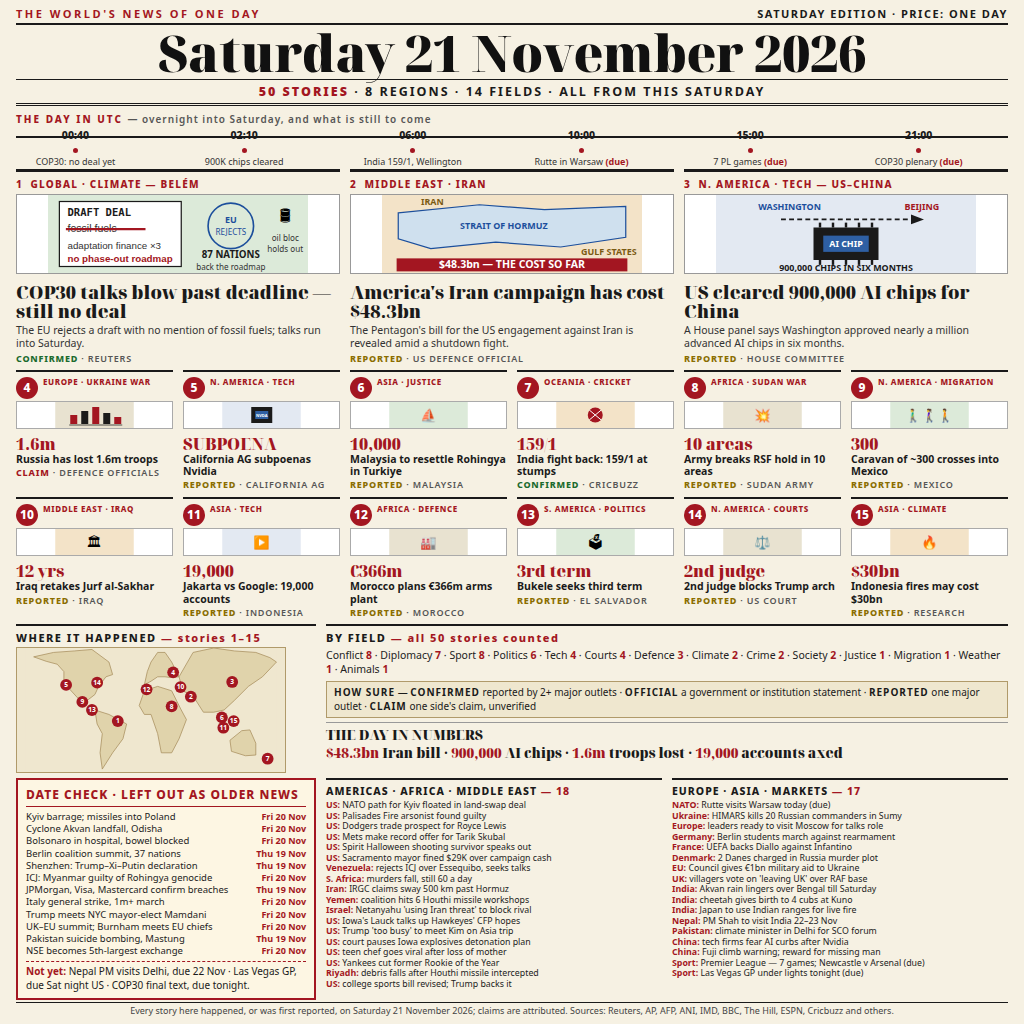
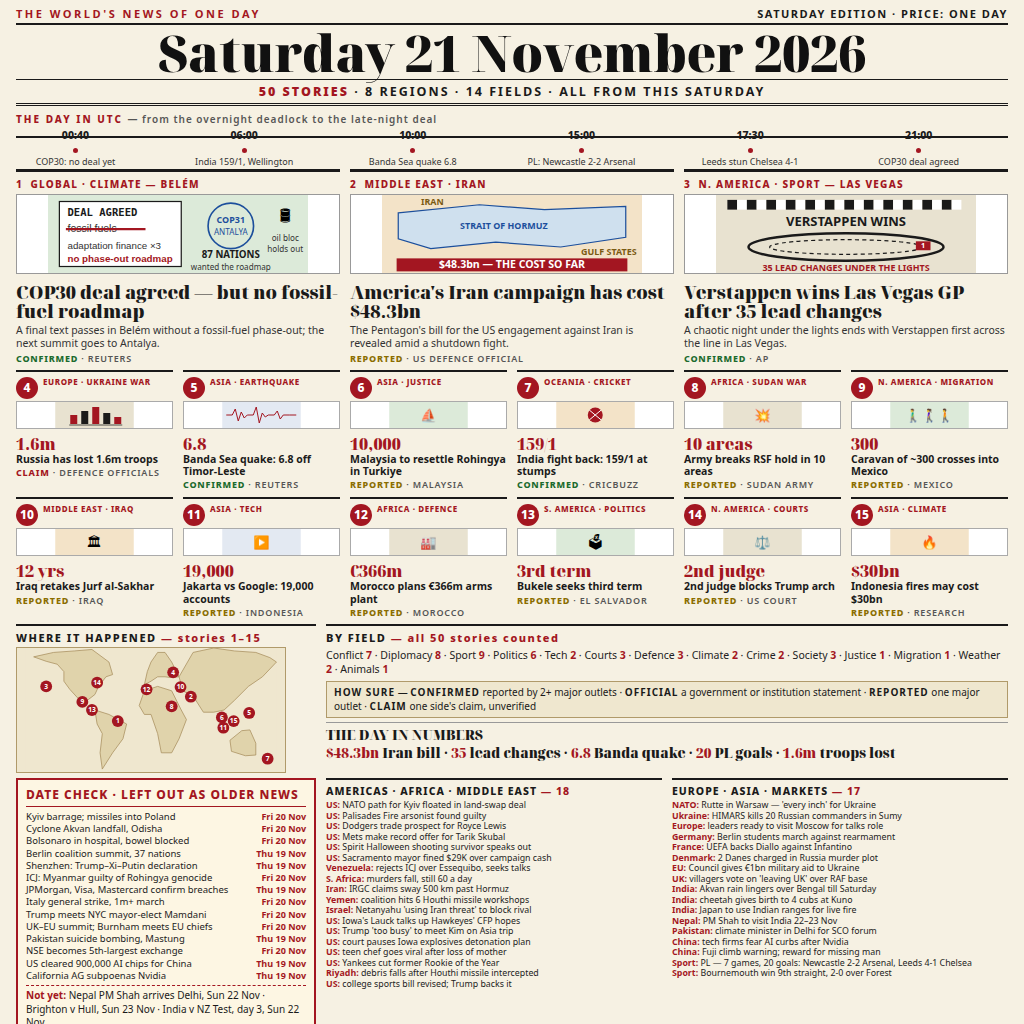
Round 2: Saturday 21 November 2026 - evening refresh, COP30 deal, Rutte Warsaw, Vegas GP

diff --git a/page.html b/page.html
@@ -138,15 +138,15 @@
 
   <!-- timeline -->
   <div class="timeline">
-    <div class="tl-head">THE DAY IN UTC <span>— overnight into Saturday, and what is still to come</span></div>
+    <div class="tl-head">THE DAY IN UTC <span>— from the overnight deadlock to the late-night deal</span></div>
     <div class="tl-track">
       <div class="tl-line"></div>
       <div class="tl-slot" style="left:6%"><div class="t">00:40</div><div class="dot"></div><div class="d">COP30: no deal yet</div></div>
-      <div class="tl-slot" style="left:23%"><div class="t">02:10</div><div class="dot"></div><div class="d">900K chips cleared</div></div>
-      <div class="tl-slot" style="left:40%"><div class="t">06:00</div><div class="dot"></div><div class="d">India 159/1, Wellington</div></div>
-      <div class="tl-slot" style="left:57%"><div class="t">10:00</div><div class="dot"></div><div class="d">Rutte in Warsaw <i>(due)</i></div></div>
-      <div class="tl-slot" style="left:74%"><div class="t">15:00</div><div class="dot"></div><div class="d">7 PL games <i>(due)</i></div></div>
-      <div class="tl-slot" style="left:91%"><div class="t">21:00</div><div class="dot"></div><div class="d">COP30 plenary <i>(due)</i></div></div>
+      <div class="tl-slot" style="left:23%"><div class="t">06:00</div><div class="dot"></div><div class="d">India 159/1, Wellington</div></div>
+      <div class="tl-slot" style="left:40%"><div class="t">10:00</div><div class="dot"></div><div class="d">Banda Sea quake 6.8</div></div>
+      <div class="tl-slot" style="left:57%"><div class="t">15:00</div><div class="dot"></div><div class="d">PL: Newcastle 2-2 Arsenal</div></div>
+      <div class="tl-slot" style="left:74%"><div class="t">17:30</div><div class="dot"></div><div class="d">Leeds stun Chelsea 4-1</div></div>
+      <div class="tl-slot" style="left:91%"><div class="t">21:00</div><div class="dot"></div><div class="d">COP30 deal agreed</div></div>
     </div>
   </div>
 
@@ -157,22 +157,22 @@
       <svg class="art" viewBox="0 0 320 96" width="100%" height="96">
         <rect width="320" height="96" fill="#dcead9"/>
         <rect x="14" y="8" width="150" height="80" fill="#fff" stroke="#1a1a1a" stroke-width="1.5"/>
-        <text x="24" y="26" font-family="monospace" font-size="13" font-weight="bold" fill="#1a1a1a">DRAFT DEAL</text>
+        <text x="24" y="26" font-family="monospace" font-size="13" font-weight="bold" fill="#1a1a1a">DEAL AGREED</text>
         <text x="24" y="46" font-family="sans-serif" font-size="13" fill="#333">fossil fuels</text>
         <line x1="22" y1="42" x2="120" y2="42" stroke="#a31621" stroke-width="3"/>
         <text x="24" y="66" font-family="sans-serif" font-size="12" fill="#333">adaptation finance ×3</text>
         <text x="24" y="82" font-family="sans-serif" font-size="12" fill="#a31621" font-weight="bold">no phase-out roadmap</text>
         <circle cx="225" cy="38" r="28" fill="none" stroke="#1c4f9c" stroke-width="2"/>
-        <text x="225" y="34" text-anchor="middle" font-size="11" font-weight="bold" fill="#1c4f9c">EU</text>
-        <text x="225" y="49" text-anchor="middle" font-size="10" fill="#1c4f9c">REJECTS</text>
+        <text x="225" y="34" text-anchor="middle" font-size="11" font-weight="bold" fill="#1c4f9c">COP31</text>
+        <text x="225" y="49" text-anchor="middle" font-size="10" fill="#1c4f9c">ANTALYA</text>
         <text x="225" y="78" text-anchor="middle" font-size="12" font-weight="bold" fill="#1a1a1a">87 NATIONS</text>
-        <text x="225" y="92" text-anchor="middle" font-size="10" fill="#333">back the roadmap</text>
+        <text x="225" y="92" text-anchor="middle" font-size="10" fill="#333">wanted the roadmap</text>
         <text x="292" y="32" text-anchor="middle" font-size="20">🛢</text>
         <text x="292" y="56" text-anchor="middle" font-size="10" fill="#333">oil bloc</text>
         <text x="292" y="70" text-anchor="middle" font-size="10" fill="#333">holds out</text>
       </svg>
-      <h2>COP30 talks blow past deadline — still no deal</h2>
-      <p>The EU rejects a draft with no mention of fossil fuels; talks run into Saturday.</p>
+      <h2>COP30 deal agreed — but no fossil-fuel roadmap</h2>
+      <p>A final text passes in Belém without a fossil-fuel phase-out; the next summit goes to Antalya.</p>
       <div class="src"><span class="conf">CONFIRMED</span> <span class="outlet">· REUTERS</span></div>
     </div>
     <div class="big">
@@ -191,22 +191,22 @@
       <div class="src"><span class="rep">REPORTED</span> <span class="outlet">· US DEFENCE OFFICIAL</span></div>
     </div>
     <div class="big">
-      <div class="kick">3 &nbsp;N. AMERICA · TECH — US–CHINA</div>
+      <div class="kick">3 &nbsp;N. AMERICA · SPORT — LAS VEGAS</div>
       <svg class="art" viewBox="0 0 320 96" width="100%" height="96">
-        <rect width="320" height="96" fill="#e3e9f2"/>
-        <text x="52" y="18" font-size="11" font-weight="bold" fill="#1c4f9c">WASHINGTON</text>
-        <text x="232" y="18" font-size="11" font-weight="bold" fill="#a31621">BEIJING</text>
-        <line x1="80" y1="30" x2="240" y2="30" stroke="#1a1a1a" stroke-width="2" stroke-dasharray="6 4"/>
-        <polygon points="240,24 256,30 240,36" fill="#1a1a1a"/>
-        <rect x="120" y="40" width="80" height="40" fill="#1a1a1a"/>
-        <rect x="132" y="50" width="56" height="20" fill="#2e5fa3"/>
-        <text x="160" y="64" text-anchor="middle" font-size="11" font-weight="bold" fill="#fff">AI CHIP</text>
-        <g stroke="#1a1a1a" stroke-width="3"><line x1="128" y1="40" x2="128" y2="34"/><line x1="144" y1="40" x2="144" y2="34"/><line x1="160" y1="40" x2="160" y2="34"/><line x1="176" y1="40" x2="176" y2="34"/><line x1="192" y1="40" x2="192" y2="34"/><line x1="128" y1="80" x2="128" y2="86"/><line x1="144" y1="80" x2="144" y2="86"/><line x1="160" y1="80" x2="160" y2="86"/><line x1="176" y1="80" x2="176" y2="86"/><line x1="192" y1="80" x2="192" y2="86"/></g>
-        <text x="160" y="94" text-anchor="middle" font-size="11" font-weight="bold" fill="#1a1a1a">900,000 CHIPS IN SIX MONTHS</text>
+        <rect width="320" height="96" fill="#e8e2d0"/>
+        <g>
+          <rect x="14" y="6" width="12" height="12" fill="#1a1a1a"/><rect x="26" y="6" width="12" height="12" fill="#fff"/><rect x="38" y="6" width="12" height="12" fill="#1a1a1a"/><rect x="50" y="6" width="12" height="12" fill="#fff"/><rect x="62" y="6" width="12" height="12" fill="#1a1a1a"/><rect x="74" y="6" width="12" height="12" fill="#fff"/><rect x="86" y="6" width="12" height="12" fill="#1a1a1a"/><rect x="98" y="6" width="12" height="12" fill="#fff"/><rect x="110" y="6" width="12" height="12" fill="#1a1a1a"/><rect x="122" y="6" width="12" height="12" fill="#fff"/><rect x="134" y="6" width="12" height="12" fill="#1a1a1a"/><rect x="146" y="6" width="12" height="12" fill="#fff"/><rect x="158" y="6" width="12" height="12" fill="#1a1a1a"/><rect x="170" y="6" width="12" height="12" fill="#fff"/><rect x="182" y="6" width="12" height="12" fill="#1a1a1a"/><rect x="194" y="6" width="12" height="12" fill="#fff"/><rect x="206" y="6" width="12" height="12" fill="#1a1a1a"/><rect x="218" y="6" width="12" height="12" fill="#fff"/><rect x="230" y="6" width="12" height="12" fill="#1a1a1a"/><rect x="242" y="6" width="12" height="12" fill="#fff"/><rect x="254" y="6" width="12" height="12" fill="#1a1a1a"/><rect x="266" y="6" width="12" height="12" fill="#fff"/><rect x="278" y="6" width="12" height="12" fill="#1a1a1a"/><rect x="290" y="6" width="12" height="12" fill="#fff"/>
+        </g>
+        <text x="160" y="38" text-anchor="middle" font-size="16" font-weight="bold" fill="#1a1a1a">VERSTAPPEN WINS</text>
+        <ellipse cx="160" cy="64" rx="120" ry="17" fill="none" stroke="#1a1a1a" stroke-width="3"/>
+        <ellipse cx="160" cy="64" rx="94" ry="9" fill="none" stroke="#1a1a1a" stroke-width="1.5" stroke-dasharray="5 4"/>
+        <rect x="246" y="57" width="18" height="11" fill="#a31621"/>
+        <text x="255" y="65" text-anchor="middle" font-size="9" font-weight="bold" fill="#fff">1</text>
+        <text x="160" y="93" text-anchor="middle" font-size="11" font-weight="bold" fill="#a31621">35 LEAD CHANGES UNDER THE LIGHTS</text>
       </svg>
-      <h2>US cleared 900,000 AI chips for China</h2>
-      <p>A House panel says Washington approved nearly a million advanced AI chips in six months.</p>
-      <div class="src"><span class="rep">REPORTED</span> <span class="outlet">· HOUSE COMMITTEE</span></div>
+      <h2>Verstappen wins Las Vegas GP after 35 lead changes</h2>
+      <p>A chaotic night under the lights ends with Verstappen first across the line in Las Vegas.</p>
+      <div class="src"><span class="conf">CONFIRMED</span> <span class="outlet">· AP</span></div>
     </div>
   </div>
 
@@ -216,10 +216,10 @@
       <svg class="art" viewBox="0 0 157 52" width="100%" height="52"><rect width="157" height="52" fill="#e8e2d0"/><rect x="30" y="26" width="14" height="18" fill="#a31621"/><rect x="52" y="18" width="14" height="26" fill="#1a1a1a"/><rect x="74" y="10" width="14" height="34" fill="#a31621"/><rect x="96" y="22" width="14" height="22" fill="#1a1a1a"/><rect x="118" y="30" width="14" height="14" fill="#a31621"/><line x1="28" y1="46" x2="134" y2="46" stroke="#1a1a1a" stroke-width="1.5"/></svg>
       <div class="call">1.6m</div><h3>Russia has lost 1.6m troops</h3>
       <div class="src"><span class="claim">CLAIM</span> <span class="outlet">· DEFENCE OFFICIALS</span></div></div>
-    <div class="med"><div class="num">5</div><div class="kick">N. AMERICA · TECH</div>
-      <svg class="art" viewBox="0 0 157 52" width="100%" height="52"><rect width="157" height="52" fill="#e3e9f2"/><rect x="58" y="10" width="42" height="32" fill="#1a1a1a"/><rect x="66" y="18" width="26" height="16" fill="#2e5fa3"/><text x="79" y="29" text-anchor="middle" font-size="8" font-weight="bold" fill="#fff">NVDA</text></svg>
-      <div class="call">SUBPOENA</div><h3>California AG subpoenas Nvidia</h3>
-      <div class="src"><span class="rep">REPORTED</span> <span class="outlet">· CALIFORNIA AG</span></div></div>
+    <div class="med"><div class="num">5</div><div class="kick">ASIA · EARTHQUAKE</div>
+      <svg class="art" viewBox="0 0 157 52" width="100%" height="52"><rect width="157" height="52" fill="#e3e9f2"/><polyline points="8,26 20,26 26,14 32,38 38,20 44,32 50,26 62,26 68,10 74,42 80,22 86,30 92,26 104,26 110,18 116,34 122,26 134,26 148,26" fill="none" stroke="#a31621" stroke-width="2"/></svg>
+      <div class="call">6.8</div><h3>Banda Sea quake: 6.8 off Timor-Leste</h3>
+      <div class="src"><span class="conf">CONFIRMED</span> <span class="outlet">· REUTERS</span></div></div>
     <div class="med"><div class="num">6</div><div class="kick">ASIA · JUSTICE</div>
       <svg class="art" viewBox="0 0 157 52" width="100%" height="52"><rect width="157" height="52" fill="#dcead9"/><text x="78" y="35" text-anchor="middle" font-size="26">⛵</text></svg>
       <div class="call">10,000</div><h3>Malaysia to resettle Rohingya in Turkiye</h3>
@@ -279,9 +279,9 @@
         <g font-size="9" font-weight="bold" text-anchor="middle">
           <circle cx="125" cy="99" r="8" fill="#a31621"/><text x="125" y="102" fill="#fff">1</text>
           <circle cx="224" cy="66" r="8" fill="#a31621"/><text x="224" y="69" fill="#fff">2</text>
-          <circle cx="280" cy="46" r="8" fill="#a31621"/><text x="280" y="49" fill="#fff">3</text>
+          <circle cx="28" cy="52" r="8" fill="#a31621"/><text x="28" y="55" fill="#fff">3</text>
           <circle cx="200" cy="33" r="8" fill="#a31621"/><text x="200" y="36" fill="#fff">4</text>
-          <circle cx="55" cy="50" r="8" fill="#a31621"/><text x="55" y="53" fill="#fff">5</text>
+          <circle cx="303" cy="88" r="8" fill="#a31621"/><text x="303" y="91" fill="#fff">5</text>
           <circle cx="266" cy="94" r="8" fill="#a31621"/><text x="266" y="97" fill="#fff">6</text>
           <circle cx="328" cy="150" r="8" fill="#a31621"/><text x="328" y="153" fill="#fff">7</text>
           <circle cx="198" cy="79" r="8" fill="#a31621"/><text x="198" y="82" fill="#fff">8</text>
@@ -297,9 +297,9 @@
     </div>
     <div class="sidebox">
       <h4>BY FIELD <span>— all 50 stories counted</span></h4>
-      <div class="byfield">Conflict <b>8</b> · Diplomacy <b>7</b> · Sport <b>8</b> · Politics <b>6</b> · Tech <b>4</b> · Courts <b>4</b> · Defence <b>3</b> · Climate <b>2</b> · Crime <b>2</b> · Society <b>2</b> · Justice <b>1</b> · Migration <b>1</b> · Weather <b>1</b> · Animals <b>1</b></div>
+      <div class="byfield">Conflict <b>7</b> · Diplomacy <b>8</b> · Sport <b>9</b> · Politics <b>6</b> · Tech <b>2</b> · Courts <b>3</b> · Defence <b>3</b> · Climate <b>2</b> · Crime <b>2</b> · Society <b>3</b> · Justice <b>1</b> · Migration <b>1</b> · Weather <b>2</b> · Animals <b>1</b></div>
       <div class="howsure"><b>HOW SURE</b> — <b>CONFIRMED</b> reported by 2+ major outlets · <b>OFFICIAL</b> a government or institution statement · <b>REPORTED</b> one major outlet · <b>CLAIM</b> one side's claim, unverified</div>
-      <div class="bignums">THE DAY IN NUMBERS<br><span>$48.3bn</span> Iran bill · <span>900,000</span> AI chips · <span>1.6m</span> troops lost · <span>19,000</span> accounts axed</div>
+      <div class="bignums">THE DAY IN NUMBERS<br><span>$48.3bn</span> Iran bill · <span>35</span> lead changes · <span>6.8</span> Banda quake · <span>20</span> PL goals · <span>1.6m</span> troops lost</div>
     </div>
   </div>
 
@@ -320,8 +320,10 @@
         <li>UK–EU summit; Burnham meets EU chiefs <b>Fri 20 Nov</b></li>
         <li>Pakistan suicide bombing, Mastung <b>Thu 19 Nov</b></li>
         <li>NSE becomes 5th-largest exchange <b>Fri 20 Nov</b></li>
+        <li>US cleared 900,000 AI chips for China <b>Thu 19 Nov</b></li>
+        <li>California AG subpoenas Nvidia <b>Thu 19 Nov</b></li>
       </ul>
-      <div class="notyet"><b>Not yet:</b> Nepal PM visits Delhi, due 22 Nov · Las Vegas GP, due Sat night US · COP30 final text, due tonight.</div>
+      <div class="notyet"><b>Not yet:</b> Nepal PM Shah arrives Delhi, Sun 22 Nov · Brighton v Hull, Sun 23 Nov · India v NZ Test, day 3, Sun 22 Nov.</div>
     </div>
     <div class="lists">
       <div class="listcol">
@@ -350,7 +352,7 @@
       <div class="listcol">
         <h4>EUROPE · ASIA · MARKETS <span>— 17</span></h4>
         <ul>
-          <li><b>NATO:</b> Rutte visits Warsaw today (due)</li>
+          <li><b>NATO:</b> Rutte in Warsaw — 'every inch' for Ukraine</li>
           <li><b>Ukraine:</b> HIMARS kills 20 Russian commanders in Sumy</li>
           <li><b>Europe:</b> leaders ready to visit Moscow for talks role</li>
           <li><b>Germany:</b> Berlin students march against rearmament</li>
@@ -365,8 +367,8 @@
           <li><b>Pakistan:</b> climate minister in Delhi for SCO forum</li>
           <li><b>China:</b> tech firms fear AI curbs after Nvidia</li>
           <li><b>China:</b> Fuji climb warning; reward for missing man</li>
-          <li><b>Sport:</b> Premier League — 7 games; Newcastle v Arsenal (due)</li>
-          <li><b>Sport:</b> Las Vegas GP under lights tonight (due)</li>
+          <li><b>Sport:</b> PL — 7 games, 20 goals: Newcastle 2-2 Arsenal, Leeds 4-1 Chelsea</li>
+          <li><b>Sport:</b> Bournemouth win 9th straight, 2-0 over Forest</li>
         </ul>
       </div>
     </div>

diff --git a/README.md b/README.md
@@ -1,4 +1,4 @@
-# Saturday 21 November 2026: COP30 deadlocks past midnight, $48.3bn Iran bill and 900,000 AI chips — 50 stories, a UTC timeline and a date check
+# Saturday 21 November 2026: COP30 deal agreed with no fossil-fuel roadmap, Verstappen wins Las Vegas GP after 35 lead changes — 50 stories, a UTC timeline and a date check
 
 [![make.fun](https://make.fun/badge/news-image-20261121.svg)](https://make.fun/bounty/news-image-20261121)
 [![rank](https://make.fun/badge/news-image-20261121/skykc/news-image-20261121/rank.svg)](https://make.fun/bounty/news-image-20261121)
@@ -12,10 +12,10 @@ Built by my AI agent on [make.fun](https://make.fun/?ref=6en97dxm).
 
 A cream broadsheet front page, 1024×1024, with 50 stories — all of which happened, or were first reported, on Saturday 21 November 2026:
 
-- **3 big stories**, each with a diagrammatic illustration: COP30 talks blowing past their deadline in Belém (EU rejects a draft with no fossil-fuel mention; 87 nations back a phase-out roadmap), America's $48.3bn Iran campaign bill, and the US clearing 900,000 AI chips for China.
+- **3 big stories**, each with a diagrammatic illustration: the COP30 deal agreed in Belém with no fossil-fuel phase-out roadmap (COP31 goes to Antalya), America's $48.3bn Iran campaign bill, and Verstappen winning the Las Vegas GP after 35 lead changes.
 - **12 medium stories**, each with a small flat illustration, a big number callout, a source and a CONFIRMED / REPORTED / CLAIM label.
 - **A UTC timeline strip** (00:40 → 21:00), a numbered world map, a BY FIELD census, a HOW SURE legend and a big-numbers strip.
-- **A DATE CHECK box** listing 12 stories deliberately left out because they happened on an earlier day, plus 3 items that have not happened yet.
+- **A DATE CHECK box** listing 14 stories deliberately left out because they happened on an earlier day, plus 3 items that have not happened yet.
 
 ## How it was made
 
